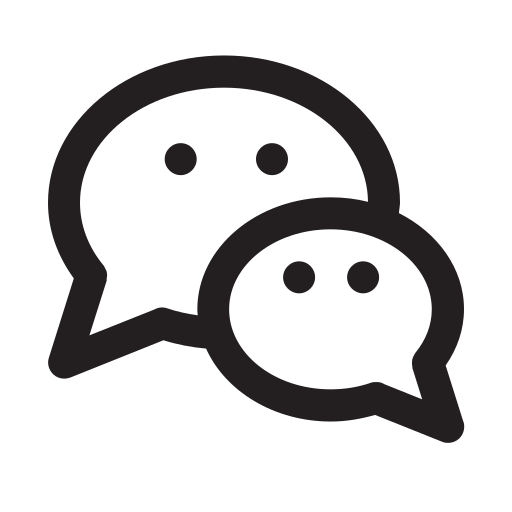
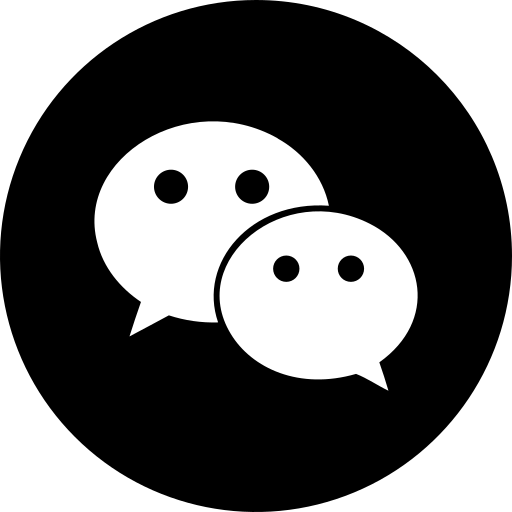
update

diff --git a/src/components/ContactTab.vue b/src/components/ContactTab.vue
@@ -30,7 +30,6 @@ const isSubmitting = ref(false);
 const isSuccess = ref(false);
 
 const handleSubmit = async () => {
-    return;
     if (isSubmitting.value) return;
 
     isSubmitting.value = true;
@@ -46,7 +45,6 @@ const handleSubmit = async () => {
             body: JSON.stringify({
                 access_key: "11a2553f-f7f2-4ee3-aee0-50d030d29032",
                 name: form.name,
-                organization: form.org,
                 phone: form.phone,
                 email: form.email,
                 message: form.message,
@@ -82,62 +80,61 @@ const handleSubmit = async () => {
 
 
 // Icons grouping for the new design
-const messageIcons = [
-    { name: 'line', img: '/assets/contact/line.png' },
-    { name: 'whatsapp', img: '/assets/contact/whatsapp.png' },
+const contactIcons = [
+    { name: 'phone', img: '/assets/contact/phone.png', link: 'tel:+66886866880' },
+    { name: 'line', img: '/assets/contact/line.png', link: 'https://lin.ee/c97zL5' },
+    { name: 'whatsapp', img: '/assets/contact/whatsapp.png', link: 'https://wa.me/message/L76U6AEG7OR7P1' },
+    { name: 'wechat', img: '/assets/contact/wechat.png', link: '', noInvert: true },
+    { name: 'mail', img: '/assets/contact/mail.png', link: 'mailto:contact@avaris.co.th' },
 ];
 
 const followIcons = [
-    { name: 'facebook', img: '/assets/contact/facebook.png' },
-    { name: 'instagram', img: '/assets/contact/instagram.png' },
-    { name: 'youtube', img: '/assets/contact/youtube.png' },
-    { name: 'tiktok', img: '/assets/contact/tiktok.png' },
-    { name: 'x', img: '/assets/contact/x.png' },
-    { name: 'add', img: '/assets/contact/add.png' },
-    { name: 'linkedin', img: '/assets/contact/linkedin.png' },
-    { name: 'pinterest', img: '/assets/contact/pinterest.png' },
+    { name: 'facebook', img: '/assets/contact/facebook.png', link: 'https://www.facebook.com/AvarisManpower' },
+    { name: 'instagram', img: '/assets/contact/instagram.png', link: 'https://www.instagram.com/avarismanpower' },
+    { name: 'youtube', img: '/assets/contact/youtube.png', link: 'https://www.youtube.com/@AvarisManpower' },
+    { name: 'tiktok', img: '/assets/contact/tiktok.png', link: 'https://www.tiktok.com/@avarismanpower' },
+    { name: 'x', img: '/assets/contact/x.png', link: 'https://x.com/AvarisManpower' },
+    { name: 'threads', img: '/assets/contact/add.png', link: 'https://www.threads.com/@avarismanpower' },
+    { name: 'linkedin', img: '/assets/contact/linkedin.png', link: '' },
+    { name: 'pinterest', img: '/assets/contact/pinterest.png', link: '' },
 ];
 </script>
 
 <template>
-    <div class="py-4 md:py-12">
+    <div class="space-y-8 py-8 px-6 md:px-0 md:pt-14">
         <div class="grid grid-cols-1 lg:grid-cols-2 gap-12 lg:gap-24">
             <!-- Left Side: Form & Map -->
             <div class="space-y-10 py-0 lg:py-4">
                 <!-- Enquiry Form -->
                 <div>
-                    <div class="text-xs md:text-xl font-serif mb-2 md:mb-6 text-left">
+                    <div class="text-sm md:text-xl text-center font-serif mb-2 md:mb-6 md:text-left">
                         {{ t('contact.form.title') }}
                     </div>
                     <form class="space-y-4" @submit.prevent="handleSubmit">
                         <input v-model="form.name" type="text" :placeholder="t('contact.form.name')" required
                             :disabled="isSubmitting"
-                            class="w-full p-3 border border-gray-200 focus:outline-none focus:border-black transition-colors placeholder:text-gray-300 disabled:bg-gray-50" />
-                        <input v-model="form.org" type="text" :placeholder="t('contact.form.org')"
-                            :disabled="isSubmitting"
-                            class="w-full p-3 border border-gray-200 focus:outline-none focus:border-black transition-colors placeholder:text-gray-300 disabled:bg-gray-50" />
+                            class="w-full p-1 border border-gray-200 focus:outline-none focus:border-black transition-colors placeholder:text-gray-300 disabled:bg-gray-50" />
 
                         <div class="flex gap-2">
-                            <div
-                                class="flex items-center justify-center p-3 border border-gray-200 bg-white min-w-[60px]">
+                            <div class="flex items-center justify-center p-1 px-2 border border-gray-200 bg-white">
                                 <img :src="flagEN" alt="US" class="w-6 h-4 object-cover" />
                             </div>
                             <input v-model="form.phone" type="tel" :placeholder="t('contact.form.phone')" required
                                 :disabled="isSubmitting"
-                                class="flex-1 p-3 border border-gray-200 focus:outline-none focus:border-black transition-colors placeholder:text-gray-300 disabled:bg-gray-50" />
+                                class="flex-1 p-1 border border-gray-200 focus:outline-none focus:border-black transition-colors placeholder:text-gray-300 disabled:bg-gray-50" />
                         </div>
 
                         <input v-model="form.email" type="email" :placeholder="t('contact.form.email')" required
                             :disabled="isSubmitting"
-                            class="w-full p-3 border border-gray-200 focus:outline-none focus:border-black transition-colors placeholder:text-gray-300 disabled:bg-gray-50" />
+                            class="w-full p-1 border border-gray-200 focus:outline-none focus:border-black transition-colors placeholder:text-gray-300 disabled:bg-gray-50" />
 
-                        <textarea v-model="form.message" :placeholder="t('contact.form.message')" rows="8" required
+                        <textarea v-model="form.message" :placeholder="t('contact.form.message')" rows="3" required
                             :disabled="isSubmitting"
-                            class="w-full p-3 border border-gray-200 focus:outline-none focus:border-black transition-colors resize-none placeholder:text-gray-300 disabled:bg-gray-50"></textarea>
+                            class="w-full p-1 border border-gray-200 focus:outline-none focus:border-black transition-colors resize-none placeholder:text-gray-300 disabled:bg-gray-50"></textarea>
 
                         <div class="pt-2">
                             <button type="submit" :disabled="isSubmitting"
-                                class="w-full p-3 bg-[#D9D9D9] text-gray-600 hover:bg-gray-300 transition-colors uppercase tracking-widest text-sm flex items-center justify-center gap-3 disabled:opacity-50 disabled:cursor-not-allowed">
+                                class="w-full p-2 bg-[#D9D9D9] text-gray-600 hover:bg-gray-300 transition-colors uppercase tracking-widest text-sm flex items-center justify-center gap-3 disabled:opacity-50 disabled:cursor-not-allowed">
                                 <span v-if="isSubmitting"
                                     class="w-4 h-4 border-2 border-gray-600 border-t-transparent rounded-full animate-spin"></span>
                                 {{ isSubmitting ? 'Sending...' : t('contact.form.submit') }}
@@ -194,51 +191,30 @@ const followIcons = [
                     </div>
                 </div>
 
-                <!-- Contact us -->
-                <div class="space-y-4">
-                    <h4 class="text-sm font-medium">{{ t('contact.section.contact_us') }}</h4>
-                    <div class="space-y-4">
-                        <div class="flex items-center gap-4">
-                            <div class="w-12 h-12 bg-black rounded-full flex items-center justify-center p-2 shadow-sm">
-                                <img src="/assets/contact/phone.png"
-                                    class="w-full h-full object-contain invert grayscale" alt="" />
-                            </div>
-                            <a :href="`tel:${data.tel.replace(/\s+/g, '')}`"
-                                class="text-sm md:text-base hover:underline">{{
-                                    data.tel }}</a>
-                        </div>
-                        <div class="flex items-center gap-4">
-                            <div class="w-12 h-12 bg-black rounded-full flex items-center justify-center p-2 shadow-sm">
-                                <img src="/assets/contact/mail.png"
-                                    class="w-full h-full object-contain invert grayscale" alt="" />
-                            </div>
-                            <a :href="`mailto:${data.email}`" class="text-sm md:text-base hover:underline">{{ data.email
-                                }}</a>
-                        </div>
-                    </div>
-                </div>
 
                 <!-- Message us -->
                 <div class="space-y-4">
                     <h4 class="text-sm font-medium">{{ t('contact.section.message_us') }}</h4>
-                    <div class="flex gap-4">
-                        <div v-for="icon in messageIcons" :key="icon.name"
-                            class="w-12 h-12 bg-black rounded-full flex items-center justify-center p-2 cursor-pointer hover:scale-105 transition-transform">
-                            <img :src="icon.img" :alt="icon.name"
-                                class="w-full h-full object-contain invert grayscale" />
-                        </div>
+                    <div class="grid grid-cols-6 max-w-sm">
+                        <component :is="icon.link ? 'a' : 'div'" v-for="icon in contactIcons" :key="icon.name"
+                            :href="icon.link || null" :target="icon.link ? '_blank' : null"
+                            class="w-12 h-12 bg-white rounded-full flex items-center justify-center p-2 cursor-pointer hover:scale-105 transition-transform">
+                            <img :src="icon.img" :alt="icon.name" class="w-full h-full object-contain"
+                                :class="{ 'invert grayscale': !icon.noInvert }" />
+                        </component>
                     </div>
                 </div>
 
                 <!-- Follow us -->
                 <div class="space-y-4">
                     <h4 class="text-sm font-medium">{{ t('contact.section.follow_us') }}</h4>
-                    <div class="grid grid-cols-5 md:flex md:flex-wrap gap-4 max-w-sm">
-                        <div v-for="icon in followIcons" :key="icon.name"
-                            class="w-11 h-11 bg-black rounded-full flex items-center justify-center p-2 cursor-pointer hover:scale-105 transition-transform">
-                            <img :src="icon.img" :alt="icon.name"
-                                class="w-full h-full object-contain invert grayscale" />
-                        </div>
+                    <div class="grid grid-cols-5 gap-4 max-w-sm">
+                        <component :is="icon.link ? 'a' : 'div'" v-for="icon in followIcons" :key="icon.name"
+                            :href="icon.link || null" :target="icon.link ? '_blank' : null"
+                            class="w-11 h-11 bg-white rounded-full flex items-center justify-center p-2 cursor-pointer hover:scale-105 transition-transform">
+                            <img :src="icon.img" :alt="icon.name" class="w-full h-full object-contain"
+                                :class="{ 'invert grayscale': !icon.noInvert }" />
+                        </component>
                     </div>
                 </div>
             </div>
